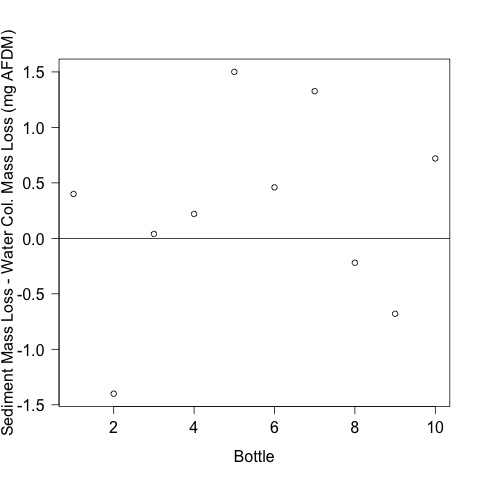
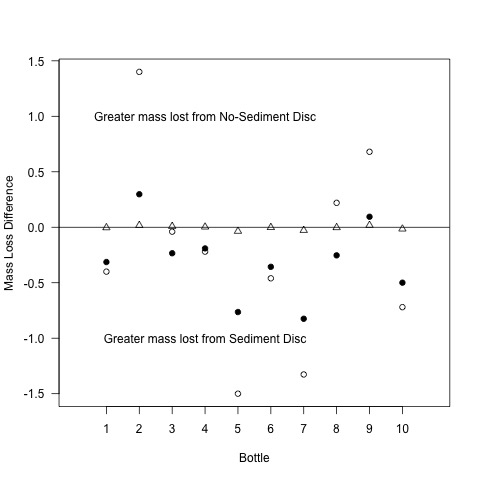
made plot on the difference between the AFDM, C, and N mass change in the sed and top positions

diff --git a/lab_notebook/analysis/mass_loss_analysis.md b/lab_notebook/analysis/mass_loss_analysis.md
@@ -8,7 +8,8 @@
     * 30 Jan 2018 - KF - summarized the leaf disc mass
     * 2 Feb 2018 - KF - consolodated all of the mass loss analysis here - including AFDM, C and N
     * 20 Feb 2018 - KF - NOTE I recalculated the mass loss for C and N using the masses from the data but then realized that these were just molar masses calculated with a constant rather than from the sample masses so they provided no information beyond that of the percents.  I reverted those calculations back to this version which has the C and N mass calculated as the propC or N multipled by the AFDM.
-    * 8 March 2019 - KF - re-analyzed the significance of the location using the difference between the top and the sediment leaves and then tested if mean == 0 with a t-test.
+    * 8 March 2019 - KF - re-analyzed the significance of AFDM loss the location using the difference between the top and the sediment leaves and then tested if mean == 0 with a t-test.
+    * 15 April - KF - re-analyzed the significance of C and N mass loss the location using the difference between the top and the sediment leaves and then tested if mean == 0 with a t-test. Made plots of the AFDM loss, C mass loss, and N mass loss difference.
 
 
 ### Description
@@ -65,8 +66,6 @@ Briefly, each of the initial samples contained 20, 10 mm leaf discs that were cu
     sd(initial_cn$CN)
     length(initial_cn$CN) #just chose a variable but all the lengths are the same
 
-
-       
 ### Determine Average Final AFDM
   
     final.DM <- leaf.final$CrucLeafDM - leaf.final$CrucMass
@@ -83,7 +82,8 @@ Since there were different numbers of leaves in the crucibles `final.AFDM` is th
     tapply(final.leaf.AFDM * 1000, leaf.final$Position, sd)
     tapply(final.leaf.AFDM * 1000, leaf.final$Position, length)
 
-#####################
+#===============================================
+    
     # Summary of the average mass of a single leaf disc at the end of the exp, by position (mg)
  
     $Sed
@@ -93,7 +93,7 @@ Since there were different numbers of leaves in the crucibles `final.AFDM` is th
     $Top
     Min. 1st Qu.  Median    Mean 3rd Qu.    Max.  SD         N
     1.920   2.315   2.580   2.677   3.125   3.540  0.5362904  10
-####################
+#==================================================
 
 ###  Determine Mass Lost
 
@@ -103,7 +103,7 @@ Since there were different numbers of leaves in the crucibles `final.AFDM` is th
     tapply(AFDM.loss * 1000, leaf.final$Position, sd)
     tapply(AFDM.loss * 1000, leaf.final$Position, length)
  
-####################
+#=======================================
     AFDM Loss from each postion (mg)
 
     $Sed
@@ -113,7 +113,7 @@ Since there were different numbers of leaves in the crucibles `final.AFDM` is th
     $Top
     Min.  1st Qu.   Median     Mean  3rd Qu.     Max.  SD        N
     0.001111 0.416100 0.961100 0.864400 1.226000 1.621000  0.5362904 10
-####################
+#=======================================
  
 ## Statistical Analysis
 
@@ -138,7 +138,12 @@ Using a t-test of the difference between the leaves on the top and sed is the be
     -0.0002366667 
 #============================== 
 
-
+#### Plot of the difference in AFDM loss between the top and sed leaves
+    
+    par(las = 1)
+    plot((diff.AFDM.loss * 1000), xlim = c(0, 11))
+    abline(h = 0)
+    
 ### Determine the C mass of the leaves
  
 
@@ -256,6 +261,12 @@ Using a t-test of the difference between the leaves on the top and sed is the be
    -0.304441 
 #============================== 
 
+#### Plot of the difference in C mass loss between the top and sed leaves
+    
+    par(las = 1)
+    plot((diff.C.mass.loss), xlim = c(0, 11), ylim = c(-1.5, 1.5))
+    abline(h = 0)
+    
 ### Determination of the change in N mass in the leaves 
 
 This is done the same way as was done with C above.
@@ -327,17 +338,42 @@ $Top
 Using a t-test of the difference between the leaves on the top and sed is the best approach since it does not treat the leaves in the different positions to be independent but tests if their difference is not equal to 0, which would indicate that one position is consistently greater or lesser.
     
 #============================== 
-One Sample t-test
 
-data:  diff.N.mass.loss
-t = -0.72533, df = 9, p-value = 0.4867
-alternative hypothesis: true mean is not equal to 0
-95 percent confidence interval:
-  -0.016770136  0.008626936
-sample estimates:
-  mean of x 
--0.0040716 
+     One Sample t-test
+
+     data:  diff.N.mass.loss
+     t = -0.72533, df = 9, p-value = 0.4867
+     alternative hypothesis: true mean is not equal to 0
+     95 percent confidence interval:
+     -0.016770136  0.008626936
+     sample estimates:
+     mean of x 
+     -0.0040716
+     
 #============================== 
+
+## Main Plot of AFDM, C mass, and N mass Loss
+     
+     par(las = 1)
+     plot(diff.AFDM.loss * 1000, diff.C.mass.loss, xlab = "Difference in AFDM Loss Between WATER and SEDIMENT Leaf Discs", ylab = "Difference in C or N Mass Loss Between WATER and SEDIMENT Leaf Discs")
+     points(diff.AFDM.loss * 1000, diff.N.mass.loss, pch = 19)
+     abline(v = 0)
+     abline(h = 0)
+
+     par(las = 1)
+     plot(diff.AFDM.loss * 1000, xlim = c(0, 11), xlab = "Bottle", ylab = "Mass Loss Difference", axes = F)
+     points(diff.C.mass.loss, pch = 19)
+     points(diff.N.mass.loss, pch = 2)
+     axis(2)
+     axis(1, 1:10, at = 1:10)
+     abline(h = 0)
+     text(4, 1, "Greater mass lost from No-Sediment Disc")
+     text(4, -1, "Greater mass lost from Sediment Disc")
+     box()
+     dev.copy(jpeg, "./output/plots/mass_loss_diff.jpg")
+     dev.off()
+
+[Diff in mass lost from leaves in the sediments or water column](../output/plots/mass_loss_diff.jpg)
 
 ## Mass Balance of C and N 
     
